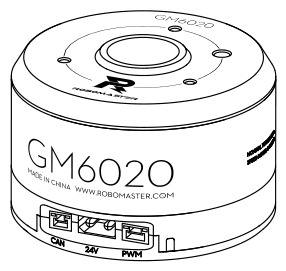
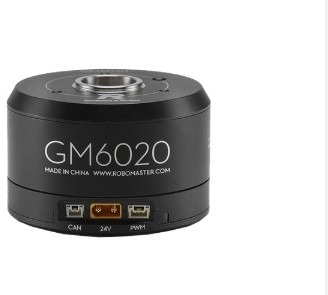
fix(dji): 三款电机图换回官方产品照（PDF 线稿那张不能用）
问题：上一轮为了「从 PDF 取图」，把 M3508 / M2006 / GM6020 的图换成了手册首页的线稿。
其中 M2006 那张几乎全是标题文字，只剩一小截线稿 —— 卡片上等于没图。

修法：从 git 历史 662fd3e（换线稿之前那版）取回三张官方产品照，顺带裁掉白边；
image_source 也从「厂商官方 PDF…首页产品图」订正为「厂商官方产品图（RoboMaster 商城产品照）」
—— 图确实来自官方商城，不是 PDF。

验证：dev 实测三张卡片都显示真实电机照片（M3508 带 R 标、GM6020 带丝印、M2006 带型号丝印）；
pytest 97 passed。
按你的要求只做本地验证，**尚未推送**。

diff --git a/wiki/docs/parts/actuator/dji-m3508-p19.md b/wiki/docs/parts/actuator/dji-m3508-p19.md
@@ -115,7 +115,7 @@ title: 大疆 DJI M3508 P19
 
 ## 资料与链接
 
-<table class="rs-table"><thead><tr><th>资料</th><th>说明</th></tr></thead><tbody><tr><td><a href="https://github.com/ZJU-HelloWorld/Wiki" target="_blank" rel="noopener">官方页面 / 数据出处</a></td><td>本页数字的出处</td></tr><tr><td class="rs-plain">产品图出处</td><td>厂商官方 PDF（RoboMaster_M3508_直流无刷电机_使用说明（中英）.pdf 首页产品图）</td></tr><tr><td class="rs-plain">收录说明</td><td>《RoboMaster M3508 直流无刷减速电机使用说明》规格页（搭配 C620 数据）</td></tr><tr><td><a href="https://www.google.com/search?q=%E5%A4%A7%E7%96%86+DJI+M3508+P19+datasheet" target="_blank" rel="noopener">datasheet 检索</a></td><td>厂商常把 PDF 放在产品页附件里</td></tr><tr><td><a href="https://github.com/search?q=M3508+P19&type=repositories" target="_blank" rel="noopener">SDK / 驱动检索</a></td><td>找现成的 CAN 驱动与示例</td></tr><tr><td><a href="https://www.google.com/search?q=%E5%A4%A7%E7%96%86+DJI+M3508+P19+%E4%BB%B7%E6%A0%BC" target="_blank" rel="noopener">价格与货期检索</a></td><td>本站不卖货，报价请向厂商确认</td></tr><tr><td><a href="/semantics" target="_blank" rel="noopener">本站口径说明</a></td><td>这些字段什么意思、缺了代表什么</td></tr><tr><td><a href="https://github.com/RoboWiki/RoboWiki.github.io/edit/main/data/catalog/actuator/dji-robomaster.json" target="_blank" rel="noopener">在 GitHub 上编辑这条数据</a></td><td>文件 data/catalog/actuator/dji-robomaster.json</td></tr></tbody></table>
+<table class="rs-table"><thead><tr><th>资料</th><th>说明</th></tr></thead><tbody><tr><td><a href="https://github.com/ZJU-HelloWorld/Wiki" target="_blank" rel="noopener">官方页面 / 数据出处</a></td><td>本页数字的出处</td></tr><tr><td class="rs-plain">产品图出处</td><td>厂商官方产品图（RoboMaster 商城产品照）</td></tr><tr><td class="rs-plain">收录说明</td><td>《RoboMaster M3508 直流无刷减速电机使用说明》规格页（搭配 C620 数据）</td></tr><tr><td><a href="https://www.google.com/search?q=%E5%A4%A7%E7%96%86+DJI+M3508+P19+datasheet" target="_blank" rel="noopener">datasheet 检索</a></td><td>厂商常把 PDF 放在产品页附件里</td></tr><tr><td><a href="https://github.com/search?q=M3508+P19&type=repositories" target="_blank" rel="noopener">SDK / 驱动检索</a></td><td>找现成的 CAN 驱动与示例</td></tr><tr><td><a href="https://www.google.com/search?q=%E5%A4%A7%E7%96%86+DJI+M3508+P19+%E4%BB%B7%E6%A0%BC" target="_blank" rel="noopener">价格与货期检索</a></td><td>本站不卖货，报价请向厂商确认</td></tr><tr><td><a href="/semantics" target="_blank" rel="noopener">本站口径说明</a></td><td>这些字段什么意思、缺了代表什么</td></tr><tr><td><a href="https://github.com/RoboWiki/RoboWiki.github.io/edit/main/data/catalog/actuator/dji-robomaster.json" target="_blank" rel="noopener">在 GitHub 上编辑这条数据</a></td><td>文件 data/catalog/actuator/dji-robomaster.json</td></tr></tbody></table>
 
 ## 备注
 

diff --git a/wiki/docs/parts/actuator/dji-m2006-p36.md b/wiki/docs/parts/actuator/dji-m2006-p36.md
@@ -112,7 +112,7 @@ title: 大疆 DJI M2006 P36
 
 ## 资料与链接
 
-<table class="rs-table"><thead><tr><th>资料</th><th>说明</th></tr></thead><tbody><tr><td><a href="https://github.com/ZJU-HelloWorld/Wiki" target="_blank" rel="noopener">官方页面 / 数据出处</a></td><td>本页数字的出处</td></tr><tr><td class="rs-plain">产品图出处</td><td>厂商官方 PDF（RM_M2006_P36直流无刷减速电机使用说明.pdf 首页产品图）</td></tr><tr><td class="rs-plain">收录说明</td><td>《RM M2006 P36 直流无刷减速电机使用说明》规格页（搭配 C610 数据）</td></tr><tr><td><a href="https://www.google.com/search?q=%E5%A4%A7%E7%96%86+DJI+M2006+P36+datasheet" target="_blank" rel="noopener">datasheet 检索</a></td><td>厂商常把 PDF 放在产品页附件里</td></tr><tr><td><a href="https://github.com/search?q=M2006+P36&type=repositories" target="_blank" rel="noopener">SDK / 驱动检索</a></td><td>找现成的 CAN 驱动与示例</td></tr><tr><td><a href="https://www.google.com/search?q=%E5%A4%A7%E7%96%86+DJI+M2006+P36+%E4%BB%B7%E6%A0%BC" target="_blank" rel="noopener">价格与货期检索</a></td><td>本站不卖货，报价请向厂商确认</td></tr><tr><td><a href="/semantics" target="_blank" rel="noopener">本站口径说明</a></td><td>这些字段什么意思、缺了代表什么</td></tr><tr><td><a href="https://github.com/RoboWiki/RoboWiki.github.io/edit/main/data/catalog/actuator/dji-robomaster.json" target="_blank" rel="noopener">在 GitHub 上编辑这条数据</a></td><td>文件 data/catalog/actuator/dji-robomaster.json</td></tr></tbody></table>
+<table class="rs-table"><thead><tr><th>资料</th><th>说明</th></tr></thead><tbody><tr><td><a href="https://github.com/ZJU-HelloWorld/Wiki" target="_blank" rel="noopener">官方页面 / 数据出处</a></td><td>本页数字的出处</td></tr><tr><td class="rs-plain">产品图出处</td><td>厂商官方产品图（RoboMaster 商城产品照）</td></tr><tr><td class="rs-plain">收录说明</td><td>《RM M2006 P36 直流无刷减速电机使用说明》规格页（搭配 C610 数据）</td></tr><tr><td><a href="https://www.google.com/search?q=%E5%A4%A7%E7%96%86+DJI+M2006+P36+datasheet" target="_blank" rel="noopener">datasheet 检索</a></td><td>厂商常把 PDF 放在产品页附件里</td></tr><tr><td><a href="https://github.com/search?q=M2006+P36&type=repositories" target="_blank" rel="noopener">SDK / 驱动检索</a></td><td>找现成的 CAN 驱动与示例</td></tr><tr><td><a href="https://www.google.com/search?q=%E5%A4%A7%E7%96%86+DJI+M2006+P36+%E4%BB%B7%E6%A0%BC" target="_blank" rel="noopener">价格与货期检索</a></td><td>本站不卖货，报价请向厂商确认</td></tr><tr><td><a href="/semantics" target="_blank" rel="noopener">本站口径说明</a></td><td>这些字段什么意思、缺了代表什么</td></tr><tr><td><a href="https://github.com/RoboWiki/RoboWiki.github.io/edit/main/data/catalog/actuator/dji-robomaster.json" target="_blank" rel="noopener">在 GitHub 上编辑这条数据</a></td><td>文件 data/catalog/actuator/dji-robomaster.json</td></tr></tbody></table>
 
 ## 备注
 

diff --git a/wiki/docs/parts/actuator/dji-gm6020.md b/wiki/docs/parts/actuator/dji-gm6020.md
@@ -116,7 +116,7 @@ title: 大疆 DJI GM6020
 
 ## 资料与链接
 
-<table class="rs-table"><thead><tr><th>资料</th><th>说明</th></tr></thead><tbody><tr><td><a href="https://github.com/ZJU-HelloWorld/Wiki" target="_blank" rel="noopener">官方页面 / 数据出处</a></td><td>本页数字的出处</td></tr><tr><td class="rs-plain">产品图出处</td><td>厂商官方 PDF（RoboMaster_GM6020直流无刷电机使用说明20231013.pdf 首页产品图）</td></tr><tr><td class="rs-plain">收录说明</td><td>《RoboMaster GM6020 直流无刷电机使用说明》(2023-10-13) 规格页</td></tr><tr><td><a href="https://www.google.com/search?q=%E5%A4%A7%E7%96%86+DJI+GM6020+datasheet" target="_blank" rel="noopener">datasheet 检索</a></td><td>厂商常把 PDF 放在产品页附件里</td></tr><tr><td><a href="https://github.com/search?q=GM6020&type=repositories" target="_blank" rel="noopener">SDK / 驱动检索</a></td><td>找现成的 CAN 驱动与示例</td></tr><tr><td><a href="https://www.google.com/search?q=%E5%A4%A7%E7%96%86+DJI+GM6020+%E4%BB%B7%E6%A0%BC" target="_blank" rel="noopener">价格与货期检索</a></td><td>本站不卖货，报价请向厂商确认</td></tr><tr><td><a href="/semantics" target="_blank" rel="noopener">本站口径说明</a></td><td>这些字段什么意思、缺了代表什么</td></tr><tr><td><a href="https://github.com/RoboWiki/RoboWiki.github.io/edit/main/data/catalog/actuator/dji-robomaster.json" target="_blank" rel="noopener">在 GitHub 上编辑这条数据</a></td><td>文件 data/catalog/actuator/dji-robomaster.json</td></tr></tbody></table>
+<table class="rs-table"><thead><tr><th>资料</th><th>说明</th></tr></thead><tbody><tr><td><a href="https://github.com/ZJU-HelloWorld/Wiki" target="_blank" rel="noopener">官方页面 / 数据出处</a></td><td>本页数字的出处</td></tr><tr><td class="rs-plain">产品图出处</td><td>厂商官方产品图（RoboMaster 商城产品照）</td></tr><tr><td class="rs-plain">收录说明</td><td>《RoboMaster GM6020 直流无刷电机使用说明》(2023-10-13) 规格页</td></tr><tr><td><a href="https://www.google.com/search?q=%E5%A4%A7%E7%96%86+DJI+GM6020+datasheet" target="_blank" rel="noopener">datasheet 检索</a></td><td>厂商常把 PDF 放在产品页附件里</td></tr><tr><td><a href="https://github.com/search?q=GM6020&type=repositories" target="_blank" rel="noopener">SDK / 驱动检索</a></td><td>找现成的 CAN 驱动与示例</td></tr><tr><td><a href="https://www.google.com/search?q=%E5%A4%A7%E7%96%86+DJI+GM6020+%E4%BB%B7%E6%A0%BC" target="_blank" rel="noopener">价格与货期检索</a></td><td>本站不卖货，报价请向厂商确认</td></tr><tr><td><a href="/semantics" target="_blank" rel="noopener">本站口径说明</a></td><td>这些字段什么意思、缺了代表什么</td></tr><tr><td><a href="https://github.com/RoboWiki/RoboWiki.github.io/edit/main/data/catalog/actuator/dji-robomaster.json" target="_blank" rel="noopener">在 GitHub 上编辑这条数据</a></td><td>文件 data/catalog/actuator/dji-robomaster.json</td></tr></tbody></table>
 
 ## 备注
 
